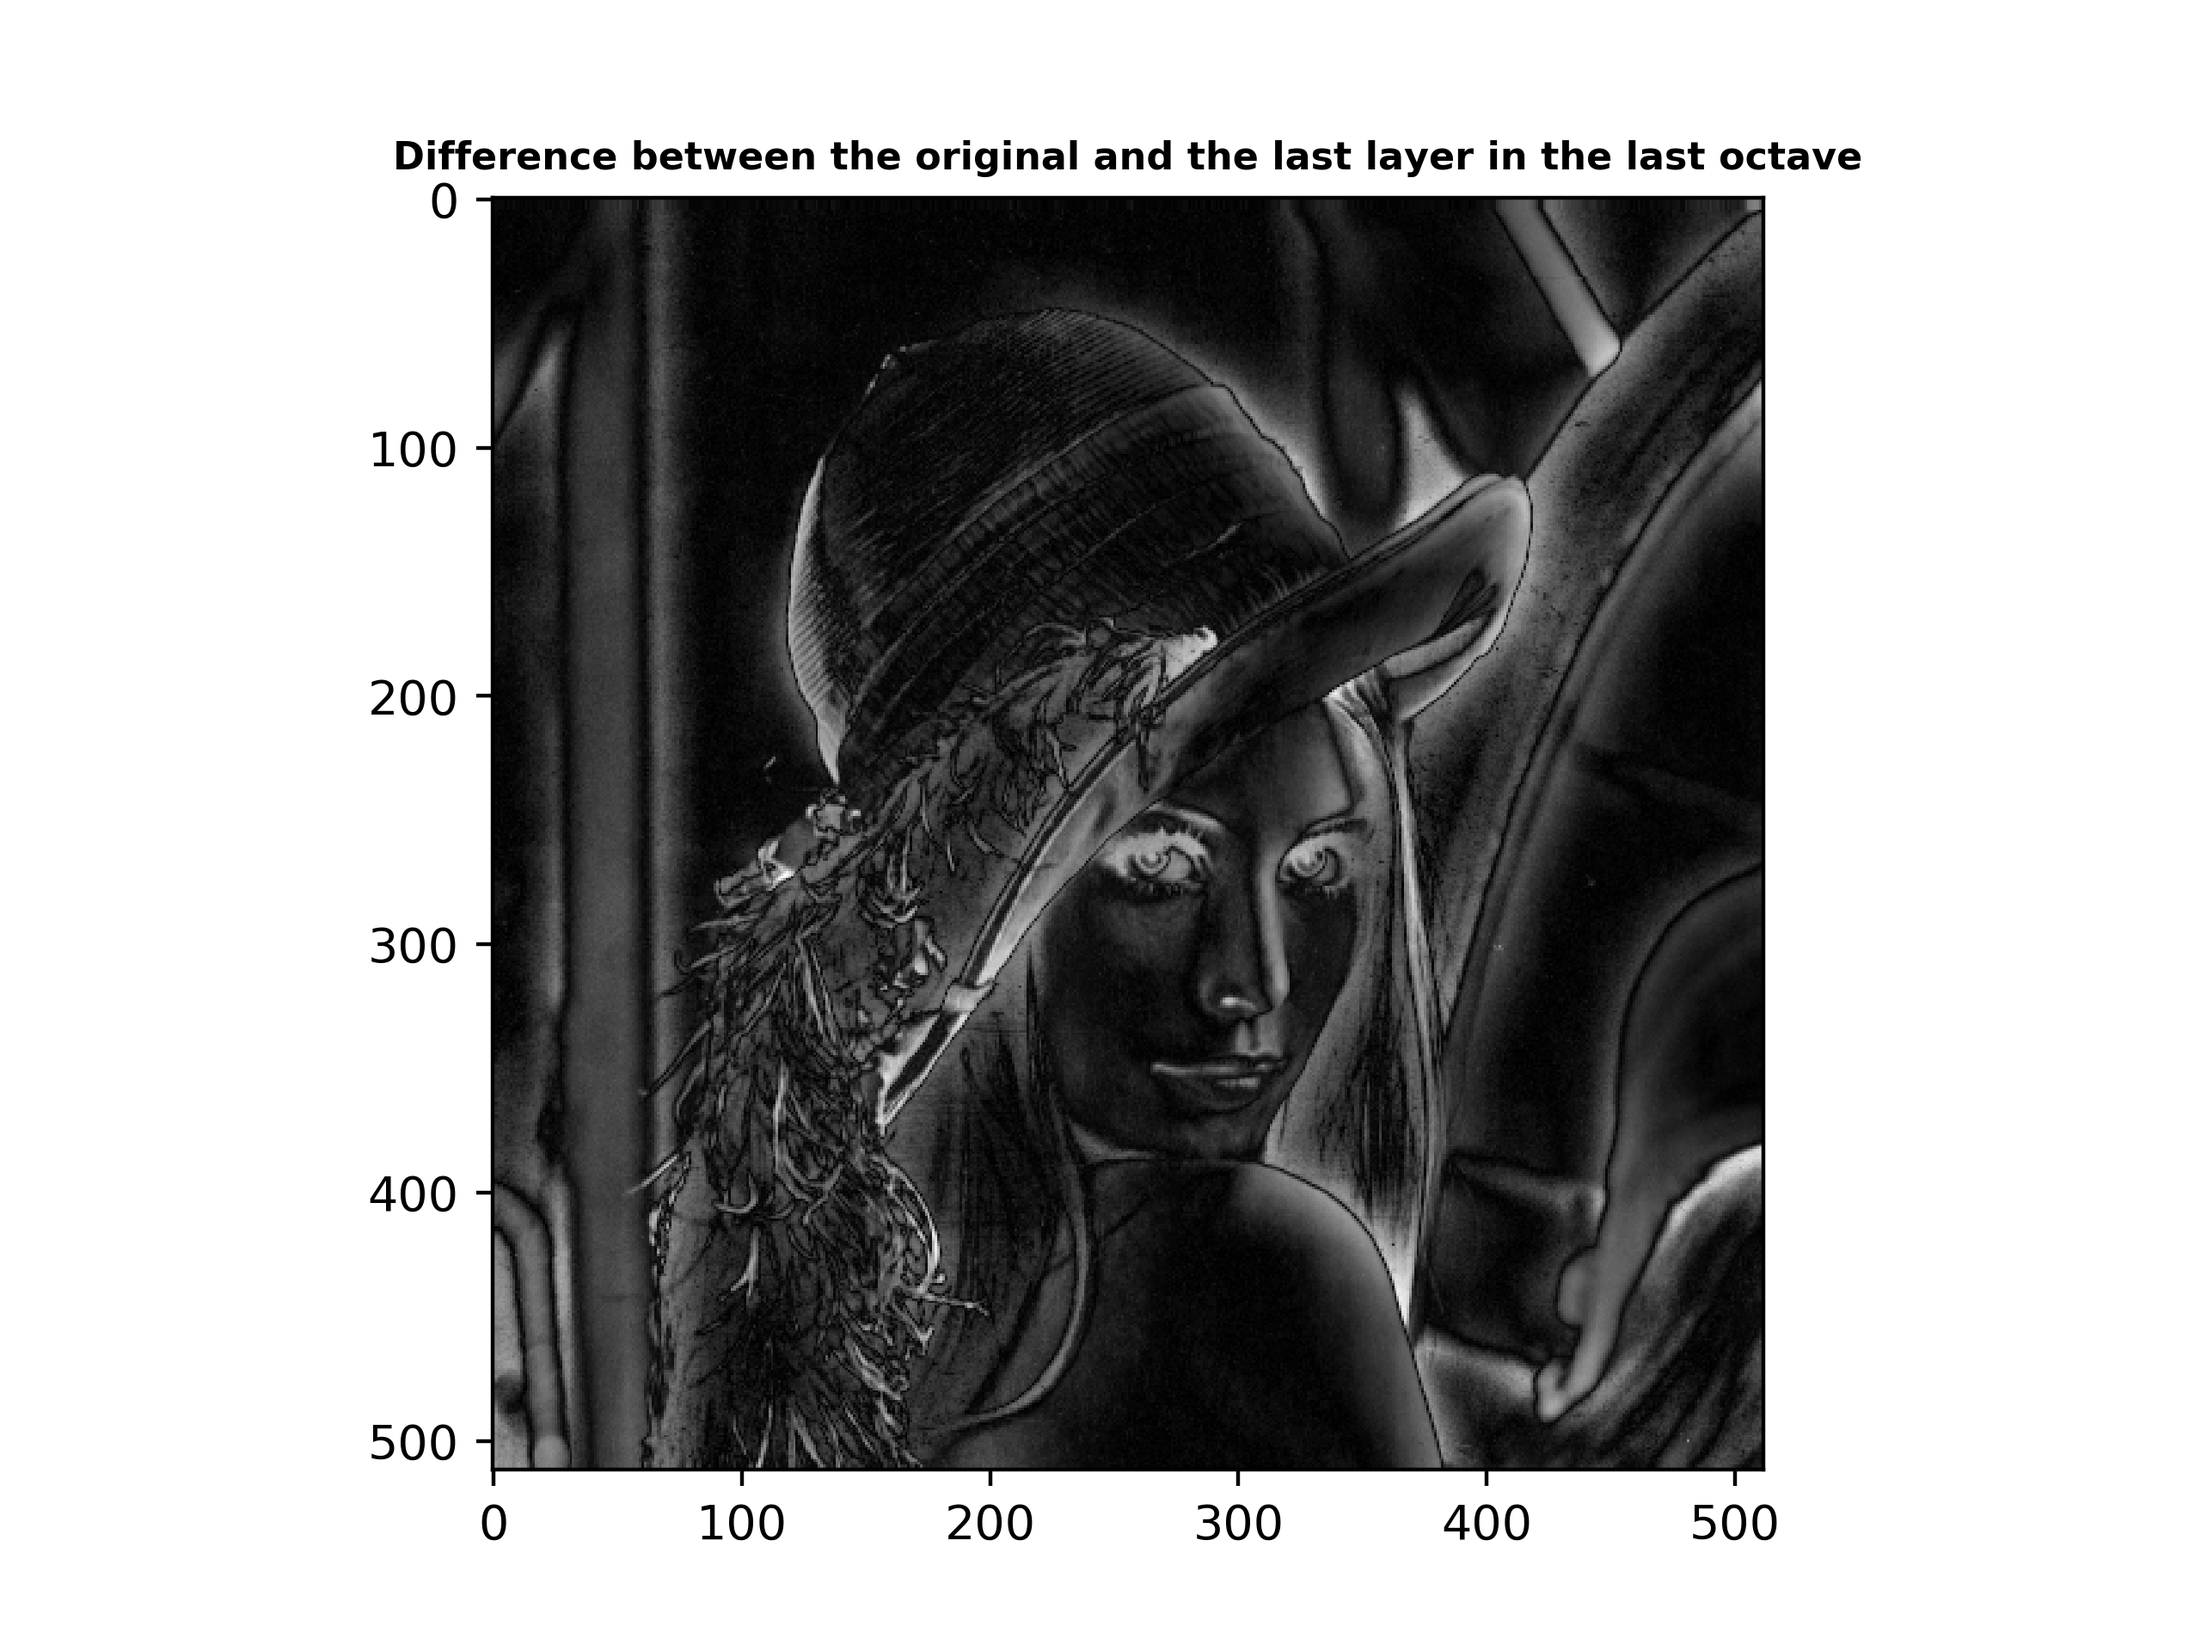
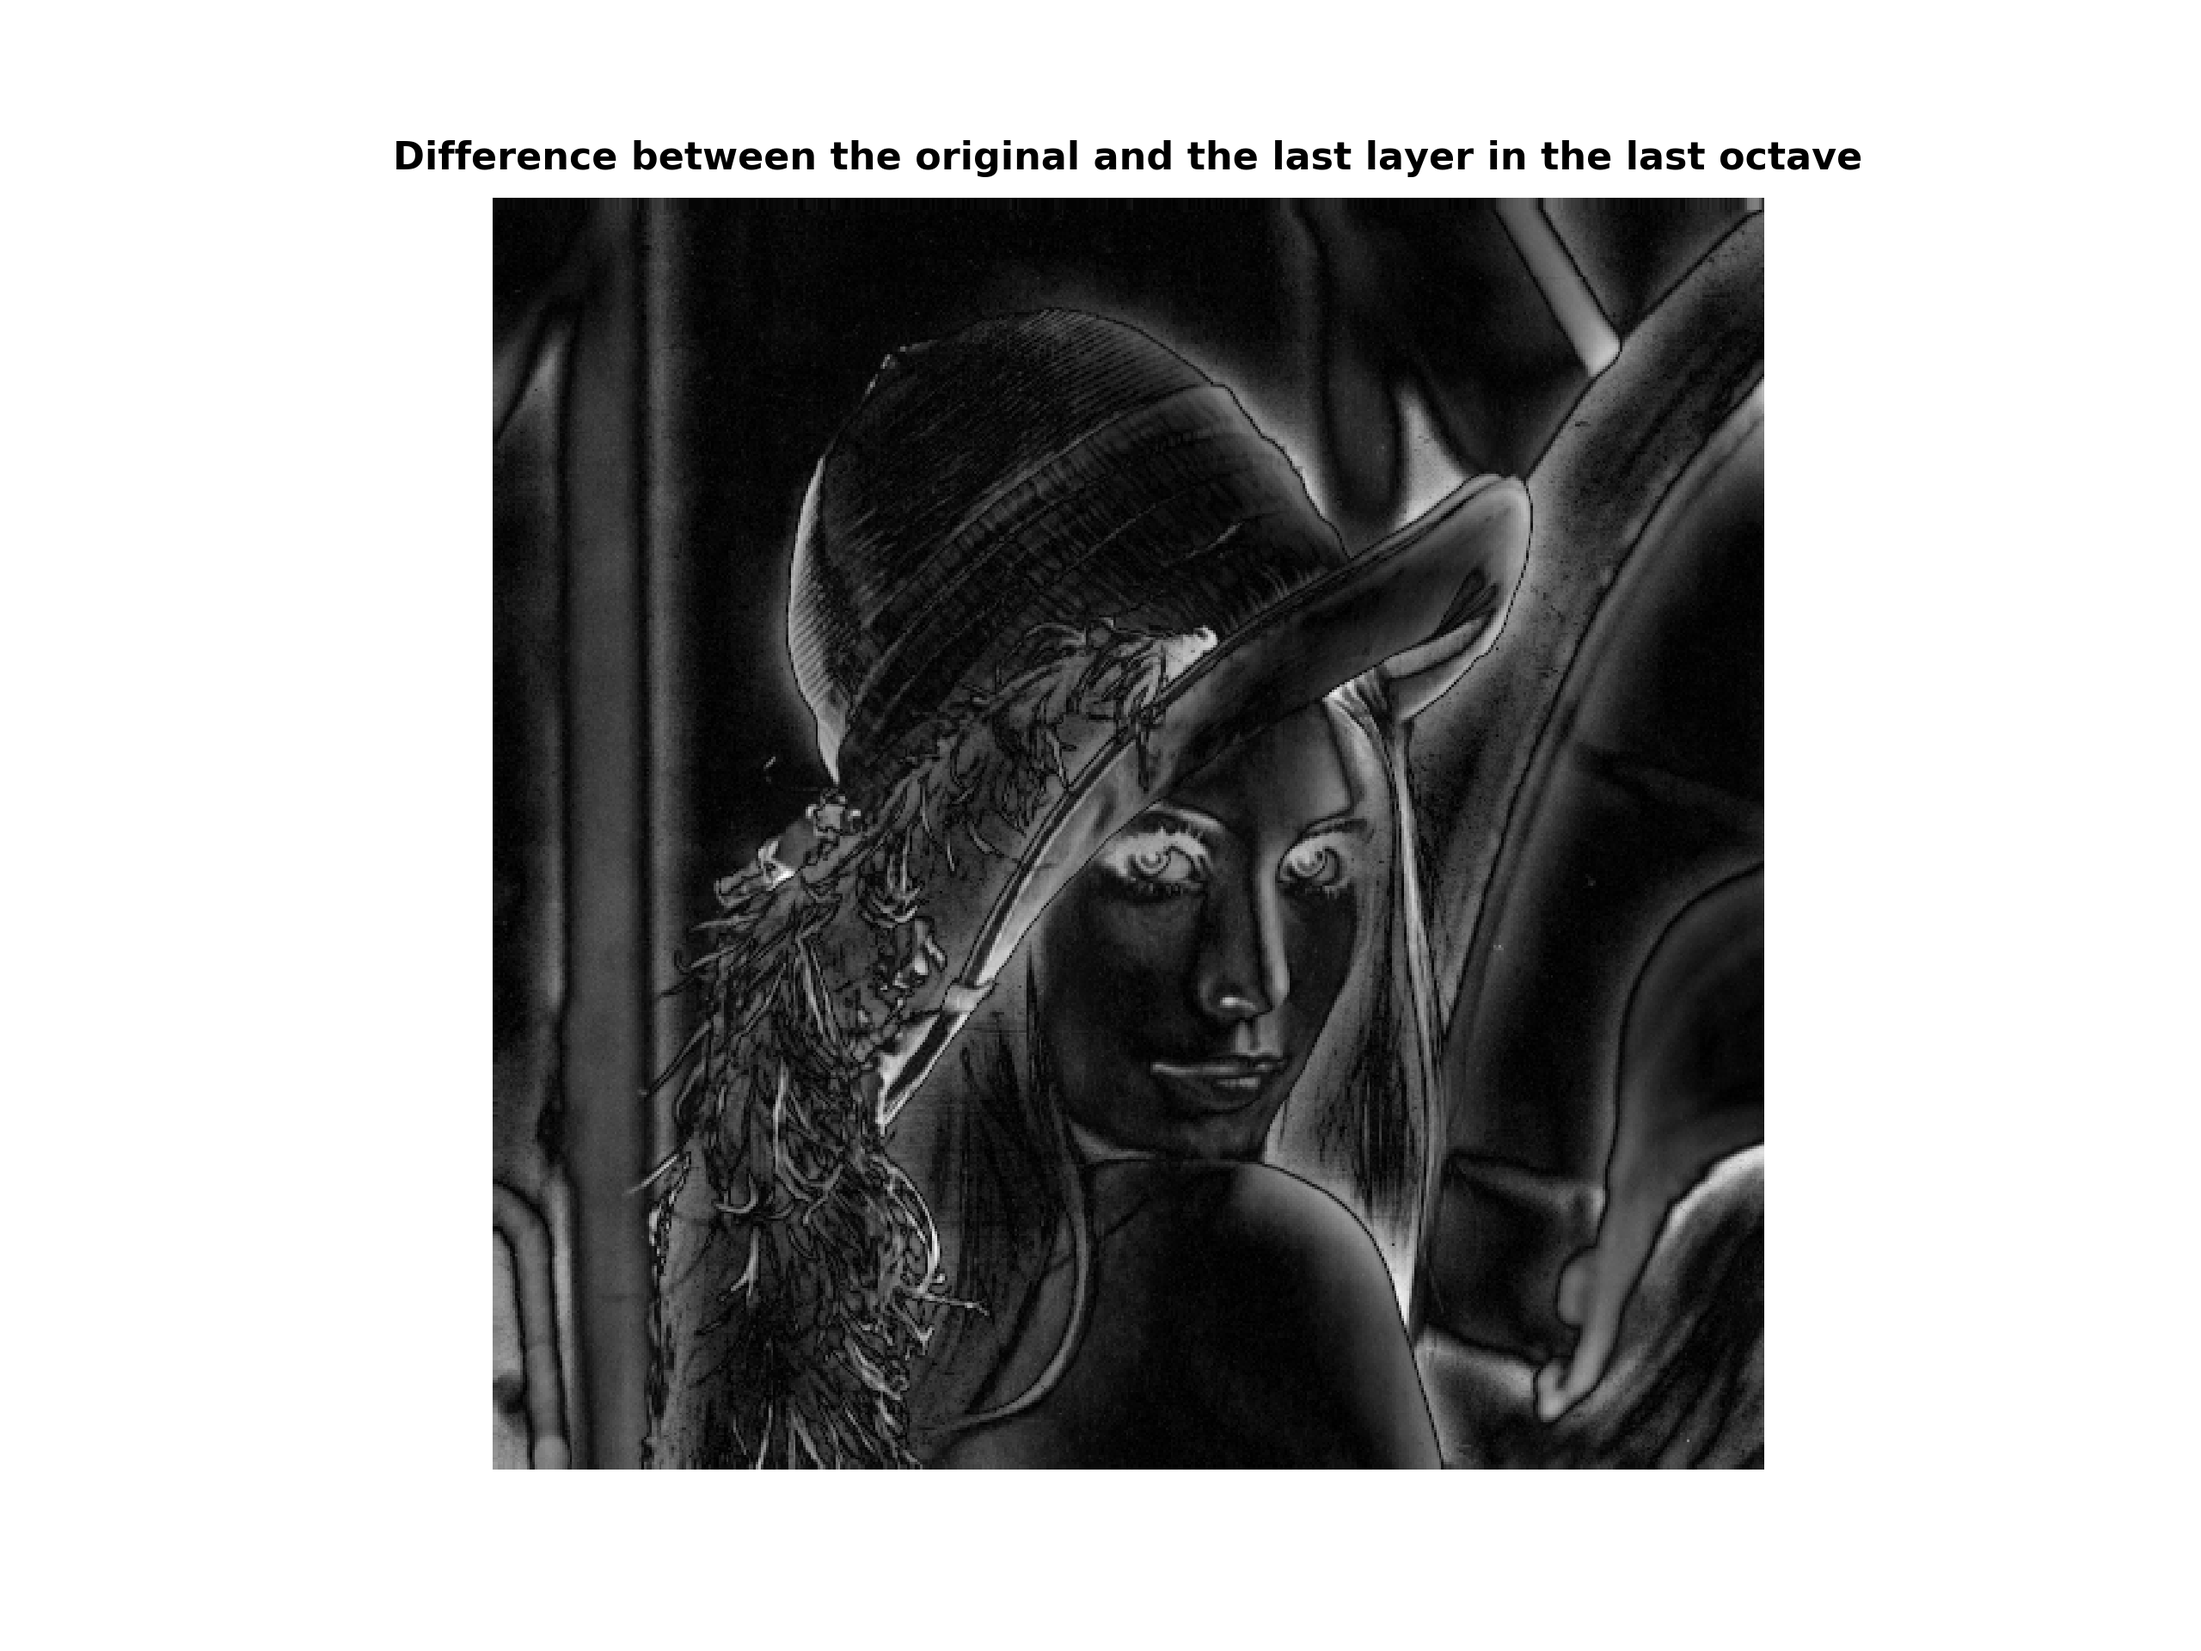
Update: 6. Finish all the question in homework #2

diff --git a/CV_Assignment_2/assignment_2_q3_3/main4unit.py b/CV_Assignment_2/assignment_2_q3_3/main4unit.py
@@ -1,0 +1,165 @@
+import matplotlib.pyplot as plt
+import cv2
+import numpy as np
+import argparse as parse
+import math
+
+
+def canny_edge_detection(img0, ksize=5, sigma=1.44, percent=0.8, ratio=0.4):
+    """Function that is used to apply Canny operator to the image
+
+    :param img0: np.ndarray, an object that stores the original image
+    :param ksize: int, an object that represents the size of the kernel in Gaussian
+    :param sigma: float32, an object that represents the sigma in Gaussian, a variance
+    :param percent: float32, an object that determine the high threshold
+    :param ratio: float32, an object that determine the low threshold
+    :return:
+    """
+
+    height, width = np.shape(img0)
+
+    # Gaussian blur
+    image = cv2.GaussianBlur(img0, (ksize, ksize), sigma)
+
+    # Generate the image gradient and the gradient direction
+    image_gradient = np.zeros((height, width))
+    gradient_direction = np.zeros((height, width))
+
+    # Generate the image gradient along the two axes, by using Sobel operator
+    x_gradient = cv2.Sobel(image, -1, 1, 0)
+    x_gradient = x_gradient.astype(np.uint8)
+
+    y_gradient = cv2.Sobel(image, -1, 0, 1)
+    y_gradient = y_gradient.astype(np.uint8)
+
+    # Obtain the gradient direction
+    for idx1 in range(height):
+        for idx2 in range(width):
+            image_gradient[idx1, idx2] = np.sqrt(x_gradient[idx1, idx2]**2+y_gradient[idx1, idx2]**2)
+            theta = math.atan(y_gradient[idx1, idx2]/(x_gradient[idx1, idx2]))*180/math.pi + 90
+
+            if 0 <= theta < 45:
+                gradient_direction[idx1, idx2] = 2
+            elif 45 <= theta < 90:
+                gradient_direction[idx1, idx2] = 3
+            elif 90 <= theta < 135:
+                gradient_direction[idx1, idx2] = 0
+            else:
+                gradient_direction[idx1, idx2] = 1
+
+    # Normalize
+    matrix_max = np.max(image_gradient)
+    image_gradient = image_gradient/matrix_max
+
+    # Determine the threshold
+    high_threshold = percent * np.max(image_gradient)
+    low_threshold = ratio * high_threshold
+
+    # Adjust the result, according to the high and low threshold
+    gradient_nms_adjusted = np.zeros((height, width))
+    result_image = np.zeros((height, width))
+
+    # Interpolate to do non-maximum suppression
+    for idx1 in range(1, height-1):
+        for idx2 in range(1, width-1):
+            east = image_gradient[idx1, idx2 + 1]
+            south = image_gradient[idx1 + 1, idx2]
+            west = image_gradient[idx1, idx2 - 1]
+            north = image_gradient[idx1 - 1, idx2]
+            north_east = image_gradient[idx1 - 1, idx2 + 1]
+            north_west = image_gradient[idx1 - 1, idx2 - 1]
+            south_west = image_gradient[idx1 + 1, idx2 - 1]
+            south_east = image_gradient[idx1 + 1, idx2 + 1]
+
+            # The real value of image gradient
+            gradient_value, g1, g2 = image_gradient[idx1, idx2], 0, 0
+
+            if gradient_direction[idx1, idx2] == 0:
+                proportion = np.fabs(y_gradient[idx1, idx2] / x_gradient[idx1, idx2])
+                g1 = east * (1 - proportion) + north_east * proportion
+                g2 = west * (1 - proportion) + south_west * proportion
+            elif gradient_direction[idx1, idx2] == 1:
+                proportion = np.fabs(x_gradient[idx1, idx2] / y_gradient[idx1, idx2])
+                g1 = north * (1 - proportion) + north_east * proportion
+                g2 = south * (1 - proportion) + south_west * proportion
+            elif gradient_direction[idx1, idx2] == 2:
+                proportion = np.fabs(x_gradient[idx1, idx2] / y_gradient[idx1, idx2])
+                g1 = north * (1 - proportion) + north_west * proportion
+                g2 = south * (1 - proportion) + south_east * proportion
+            elif gradient_direction[idx1, idx2] == 3:
+                proportion = np.fabs(y_gradient[idx1, idx2] / x_gradient[idx1, idx2])
+                g1 = west * (1 - proportion) + north_west * proportion
+                g2 = east * (1 - proportion) + south_east * proportion
+
+            # Judge whether it is possible to be an edge point
+            if gradient_value >= g1 and gradient_value >= g2:
+                gradient_nms_adjusted[idx1, idx2] = gradient_value
+            else:
+                gradient_nms_adjusted[idx1, idx2] = low_threshold
+
+    # Double threshold detection
+    for idx1 in range(1, height - 1):
+        for idx2 in range(1, width - 1):
+            # Selection by threshold
+            if gradient_nms_adjusted[idx1, idx2] >= high_threshold:
+                result_image[idx1, idx2] = 1
+            elif gradient_nms_adjusted[idx1, idx2] <= low_threshold:
+                result_image[idx1, idx2] = 0
+
+    for idx1 in range(1, height - 1):
+        for idx2 in range(1, width - 1):
+            # Connection
+            if low_threshold < gradient_nms_adjusted[idx1, idx2] < high_threshold:
+                if (gradient_nms_adjusted[idx1 - 1, idx2 - 1: idx2 + 1] >= high_threshold).any() \
+                        or (gradient_nms_adjusted[idx1 + 1, idx2 - 1: idx2 + 1] >= high_threshold).any() \
+                        or (gradient_nms_adjusted[idx1, idx2 - 1: idx2 + 1] >= high_threshold).any():
+                    result_image[idx1, idx2] = 1
+                else:
+                    result_image[idx1, idx2] = 0
+
+    return result_image
+
+
+def main():
+    """"Function that is used to run this single unit program for testing or so.
+    Users can just run this module for some specific intentions.
+
+
+    :return:
+    """
+
+    parser = parse.ArgumentParser()
+    parser.add_argument('--image', '-i', type=str, default='./../resource/Lenna.png',
+                        help='The path to the original image [Default: ./../resource/Lenna.png]')
+    parser.add_argument('--sigma', '-s', type=float, default=1.2,
+                        help='The sigma in Gaussian, a variance [Default: 1.2]')
+    parser.add_argument('--kernel_size', '-ksize', type=int, default=3,
+                        help='The size of the kernel in Gaussian [Default: 3]')
+    parser.add_argument('--percent', '-p', type=float, default=0.1,
+                        help='Determine the high threshold [Default: 0.8]')
+    parser.add_argument('--ratio', '-l', type=float, default=0.05,
+                        help='Determine the low threshold [Default: 0.5]')
+
+    args = parser.parse_args()
+
+    original_image = cv2.imread(args.image)
+    original_image = cv2.cvtColor(original_image, cv2.COLOR_BGR2GRAY)
+
+    # Generate the Canny edge detection
+    result = canny_edge_detection(img0=original_image, ksize=args.kernel_size,
+                                  percent=args.percent, ratio=args.ratio)
+
+    # Actual Canny operator
+    # result = cv2.Canny(original_image, 60, 180)
+
+    # Save the figure
+    plt.title('Edge Detection by using Canny operator',
+              fontsize=8, fontweight='bold')
+    plt.imshow(result, cmap='gray')
+    plt.axis('off')
+    plt.savefig('./../results/canny-edge-detection.png', dpi=400)
+    plt.close('all')
+
+
+if __name__ == '__main__':
+    main()

diff --git a/CV_Assignment_2/assignment_2_q3_2/main4unit.py b/CV_Assignment_2/assignment_2_q3_2/main4unit.py
@@ -102,6 +102,12 @@ def apply_edge_detector(diff_image):
 
 
 def main():
+    """"Function that is used to run this single unit program for testing or so.
+    Users can just run this module for some specific intentions.
+
+
+    :return:
+    """
     parser = parse.ArgumentParser()
     parser.add_argument('--image', '-i', type=str, default='./../resource/Lenna.png',
                         help='The path to the original image [Default: ./../resource/Lenna.png]')
@@ -137,6 +143,7 @@ def main():
     plt.title('Edge Detection by using zero-crossing',
               fontsize=8, fontweight='bold')
     plt.imshow(result, cmap='gray')
+    plt.axis('off')
     plt.savefig('./../results/edge-detection.png', dpi=400)
     plt.close('all')
 

diff --git a/CV_Assignment_2/assignment_2_q3_1/main4unit.py b/CV_Assignment_2/assignment_2_q3_1/main4unit.py
@@ -142,6 +142,7 @@ class GaussPyramid:
         plt.title('Difference between the original and the last layer in the last octave',
                   fontsize=8, fontweight='bold')
         plt.imshow(gray_image, cmap='gray')
+        plt.axis('off')
         plt.savefig('./../results/difference-to-origin.png', dpi=400)
         plt.close('all')
 
